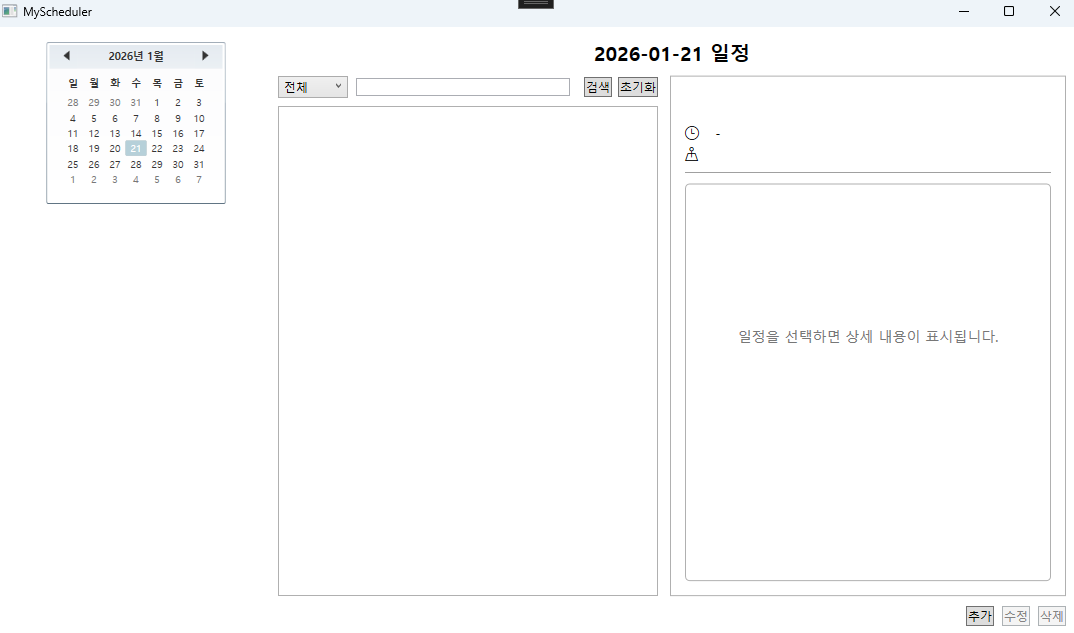
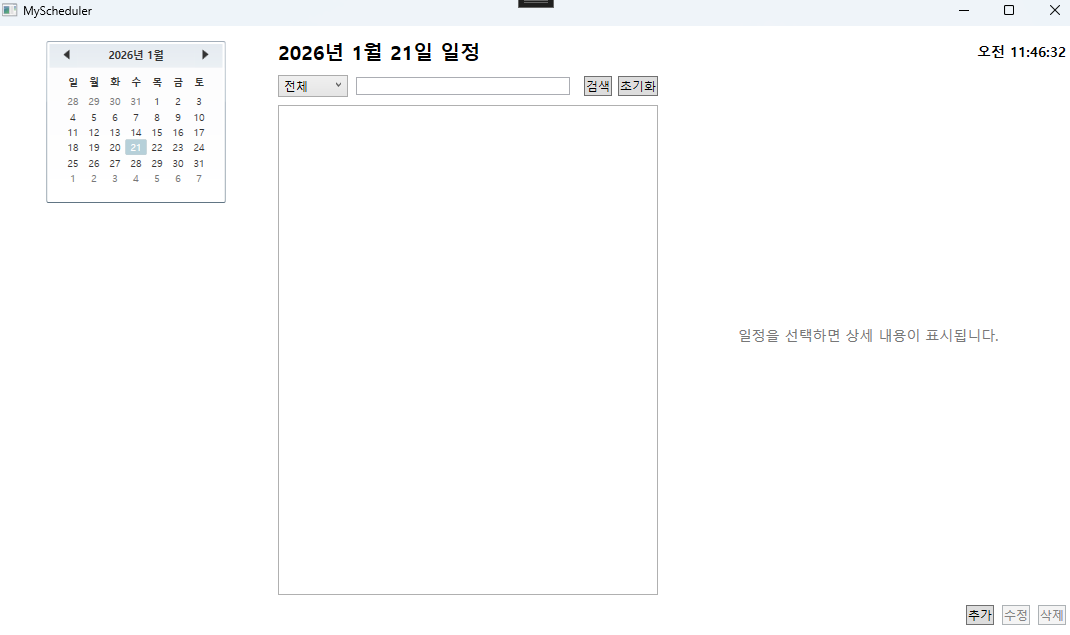
feat: 헤더 날짜, 현재시간(UTC를 KST 변환) 표시 개선, 리스트 시간 범위 표기 및 입력 잠금 개선

diff --git a/MainWindow.xaml b/MainWindow.xaml
@@ -4,8 +4,8 @@
         x:Name="Root"
         Title="MyScheduler" Width="1100" Height="650">
 
-    <Grid Margin="12">
-        <Grid x:Name="ContentLayer">
+    <Grid>
+        <Grid x:Name="ContentLayer" Margin="12">
             <Grid.Style>
                 <Style TargetType="Grid">
                     <Setter Property="IsEnabled" Value="True"/>
@@ -34,12 +34,25 @@
                     <RowDefinition Height="Auto"/>
                 </Grid.RowDefinitions>
 
-                <TextBlock Grid.Row="0"
-                           Text="{Binding SelectedDate, StringFormat={}{0:yyyy-MM-dd} 일정}"
-                           FontSize="20"
-                           FontWeight="Bold"
-                           HorizontalAlignment="Center"
-                           Margin="0,0,0,10"/>
+                <Grid Grid.Row="0" Margin="0,0,0,10">
+                    <Grid.ColumnDefinitions>
+                        <ColumnDefinition Width="*"/>
+                        <ColumnDefinition Width="Auto"/>
+                    </Grid.ColumnDefinitions>
+
+                    <TextBlock Grid.Column="0"
+                               Text="{Binding SelectedDate, StringFormat={}{0:yyyy년 M월 d일} 일정}"
+                               FontSize="20"
+                               FontWeight="Bold"
+                               VerticalAlignment="Center"/>
+
+                    <TextBlock Grid.Column="1"
+                               Text="{Binding NowKst, StringFormat={}{0:tt h:mm:ss}, ConverterCulture=ko-KR}"
+                               FontSize="14"
+                               FontWeight="SemiBold"
+                               VerticalAlignment="Center"
+                               HorizontalAlignment="Right"/>
+                </Grid>
 
                 <Grid Grid.Row="1">
                     <Grid.ColumnDefinitions>
@@ -98,9 +111,16 @@
                                                    FontSize="13"/>
 
                                         <TextBlock Grid.Row="1"
-                                                   Margin="0,4,0,0"
-                                                   Foreground="#666"
-                                                   Text="{Binding StartAt, StringFormat={}{0:HH:mm}}"/>
+                                            Margin="0,4,0,0"
+                                            Foreground="#666">
+                                            <Run Text="{Binding StartAt,
+                                                StringFormat={}{0:tt h:mm},
+                                                ConverterCulture=ko-KR}"/>
+                                            <Run Text=" ~ "/>
+                                            <Run Text="{Binding EndAt,
+                                                StringFormat={}{0:tt h:mm},
+                                                ConverterCulture=ko-KR}"/>
+                                        </TextBlock>
                                     </Grid>
                                 </DataTemplate>
                             </ListBox.ItemTemplate>
@@ -222,7 +242,7 @@
                 </Style>
             </Grid.Style>
 
-            <Border Background="#80000000" CornerRadius="8">
+            <Border Background="#80000000">
                 <Border HorizontalAlignment="Center"
                         VerticalAlignment="Center"
                         Background="White"

diff --git a/ViewModels/MainViewModel.cs b/ViewModels/MainViewModel.cs
@@ -2,6 +2,7 @@
 using CommunityToolkit.Mvvm.Input;
 using MyScheduler.Models;
 using MyScheduler.Services;
+using MyScheduler.Utils;
 using MyScheduler.Views;
 using System;
 using System.Collections.ObjectModel;
@@ -72,6 +73,13 @@ public partial class MainViewModel : ObservableObject
             if (SetProperty(ref _selectedDate, value))
                 _ = LoadSchedulesAsync();
         }
+    }
+
+    private DateTime _nowKst;
+    public DateTime NowKst
+    {
+        get => _nowKst;
+        private set => SetProperty(ref _nowKst, value);
     }
 
     private ScheduleListItem? _selectedSchedule;
@@ -368,18 +376,16 @@ public partial class MainViewModel : ObservableObject
     }
 
     private readonly DispatcherTimer _clockTimer = new();
-    private DateTime _now = DateTime.Now;
-
-    public DateTime Now
-    {
-        get => _now;
-        private set => SetProperty(ref _now, value);
-    }
 
     private void StartClock()
     {
         _clockTimer.Interval = TimeSpan.FromSeconds(1);
-        _clockTimer.Tick += (_, __) => Now = DateTime.Now;
+        _clockTimer.Tick += (_, __) =>
+        {
+            NowKst = TimeUtil.UtcToKorea(DateTime.UtcNow);
+        };
+
+        NowKst = TimeUtil.UtcToKorea(DateTime.UtcNow);
         _clockTimer.Start();
     }
 
